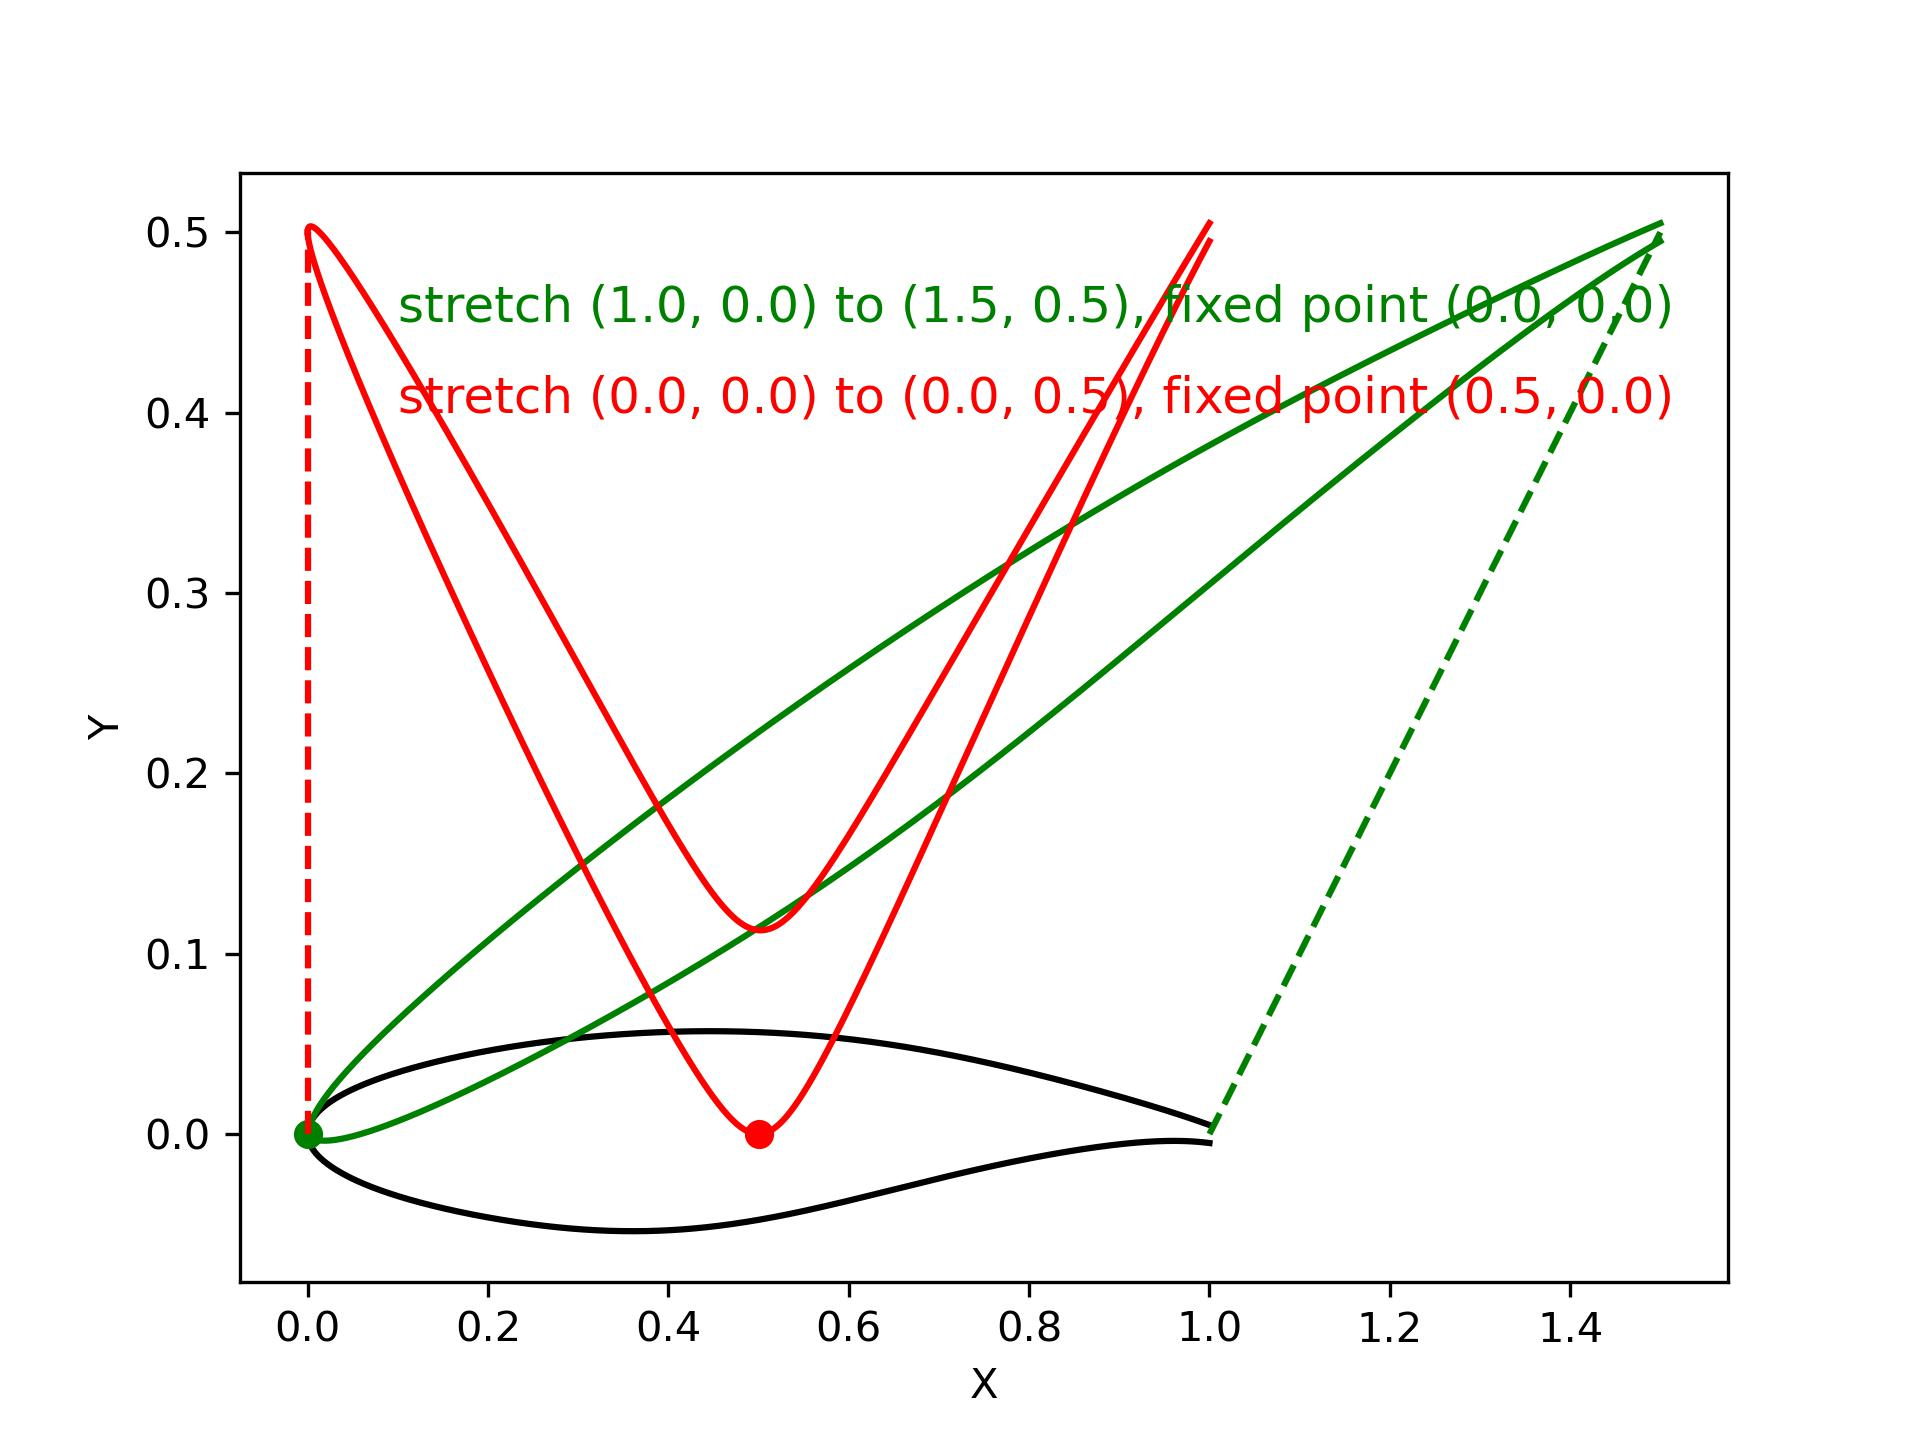
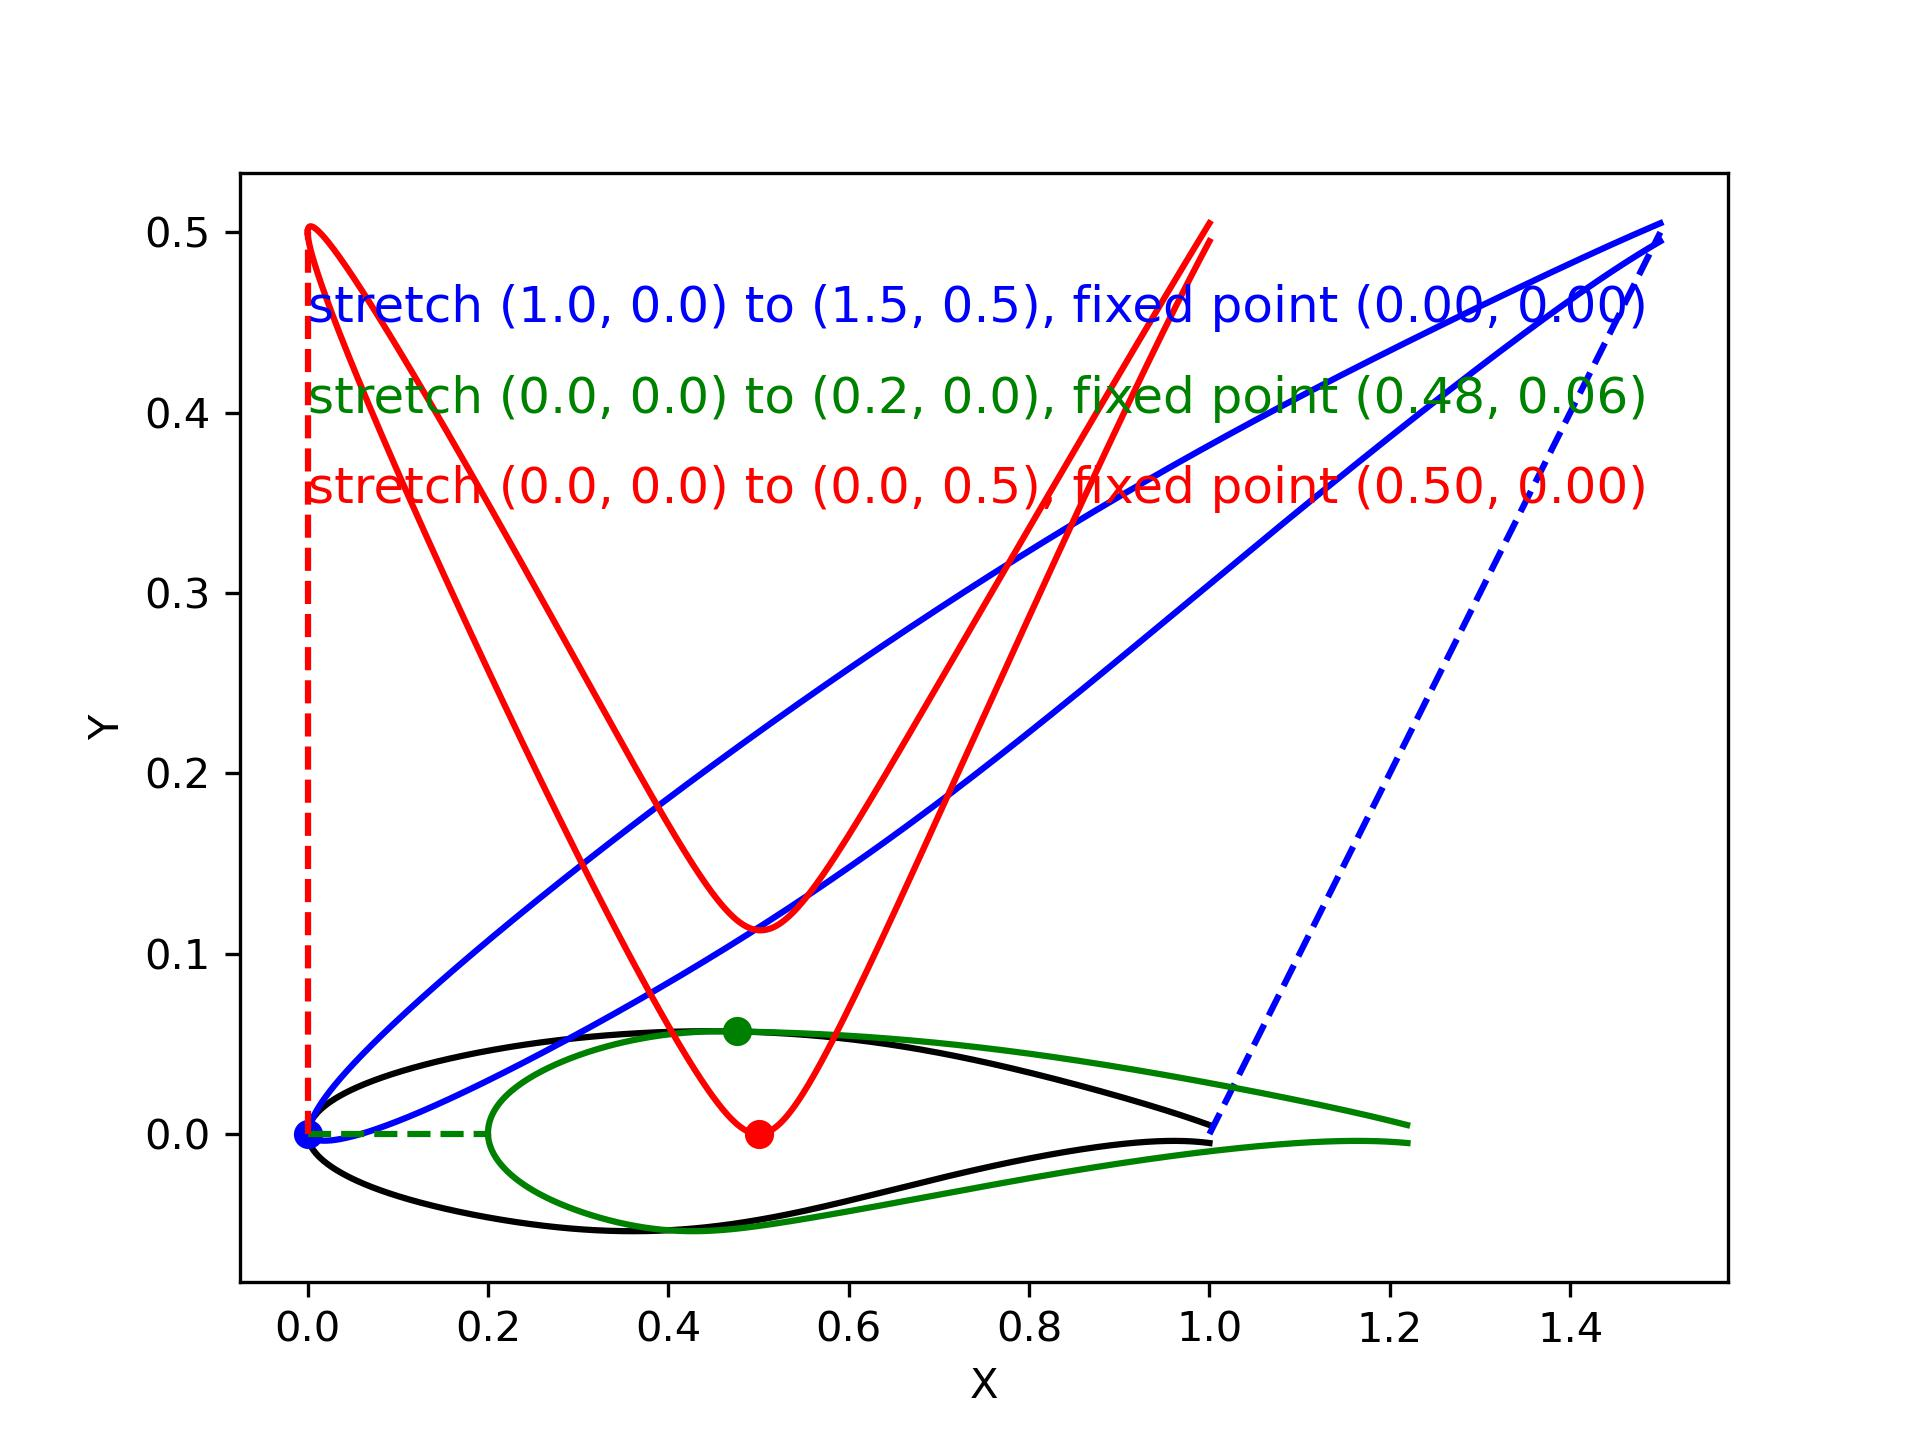
Tutorial curve_transform

diff --git a/docs/tutorial/curve_transform.py b/docs/tutorial/curve_transform.py
@@ -111,7 +111,19 @@ def stretch_curve():
     plt.plot(x0, yu0, 'k')
     plt.plot(x0, yl0, 'k')
     
+    
     dx=0.5; dy=0.5; xm=1.0; ym=0.0; xf=0.0; yf=0.0
+    xu_, yu_ = stretch_fixed_point(x0, yu0, dx=dx, dy=dy, xm=xm, ym=ym, xf=xf, yf=yf)
+    xl_, yl_ = stretch_fixed_point(x0, yl0, dx=dx, dy=dy, xm=xm, ym=ym, xf=xf, yf=yf)
+    
+    plt.plot(xu_, yu_, 'b')
+    plt.plot(xl_, yl_, 'b')
+    plt.plot([xf], [yf], 'bo')
+    plt.plot([xm, xm+dx], [ym, ym+dy], 'b--')
+    plt.text(0.0, 0.45, 'stretch (%.1f, %.1f) to (%.1f, %.1f), fixed point (%.2f, %.2f)'%(xm, ym, xm+dx, ym+dy, xf, yf), fontsize=12, color='b')
+    
+    
+    dx=0.2; dy=0.0; xm=0.0; ym=0.0; xf=x0[500]; yf=yu0[500]
     xu_, yu_ = stretch_fixed_point(x0, yu0, dx=dx, dy=dy, xm=xm, ym=ym, xf=xf, yf=yf)
     xl_, yl_ = stretch_fixed_point(x0, yl0, dx=dx, dy=dy, xm=xm, ym=ym, xf=xf, yf=yf)
     
@@ -119,7 +131,8 @@ def stretch_curve():
     plt.plot(xl_, yl_, 'g')
     plt.plot([xf], [yf], 'go')
     plt.plot([xm, xm+dx], [ym, ym+dy], 'g--')
-    plt.text(0.1, 0.45, 'stretch (%.1f, %.1f) to (%.1f, %.1f), fixed point (%.1f, %.1f)'%(xm, ym, xm+dx, ym+dy, xf, yf), fontsize=12, color='g')
+    plt.text(0.0, 0.40, 'stretch (%.1f, %.1f) to (%.1f, %.1f), fixed point (%.2f, %.2f)'%(xm, ym, xm+dx, ym+dy, xf, yf), fontsize=12, color='g')
+    
     
     dx=0.0; dy=0.5; xm=0.0; ym=0.0; xf=0.5; yf=0.0
     xu_, yu_ = stretch_fixed_point(x0, yu0, dx=dx, dy=dy, xm=xm, ym=ym, xf=xf, yf=yf)
@@ -129,7 +142,7 @@ def stretch_curve():
     plt.plot(xl_, yl_, 'r')
     plt.plot([xf], [yf], 'ro')
     plt.plot([xm, xm+dx], [ym, ym+dy], 'r--')
-    plt.text(0.1, 0.40, 'stretch (%.1f, %.1f) to (%.1f, %.1f), fixed point (%.1f, %.1f)'%(xm, ym, xm+dx, ym+dy, xf, yf), fontsize=12, color='r')
+    plt.text(0.0, 0.35, 'stretch (%.1f, %.1f) to (%.1f, %.1f), fixed point (%.2f, %.2f)'%(xm, ym, xm+dx, ym+dy, xf, yf), fontsize=12, color='r')
     
     plt.xlabel('X')
     plt.ylabel('Y')

diff --git a/cst_modeling/basic.py b/cst_modeling/basic.py
@@ -1761,7 +1761,7 @@ def rotate(x: np.ndarray, y: np.ndarray, z: np.ndarray,
 def stretch_fixed_point(x: np.ndarray, y: np.ndarray, dx=0.0, dy=0.0, 
                         xm=None, ym=None, xf=None, yf=None) -> Tuple[np.ndarray, np.ndarray]:
     '''
-    Linearly stretch a 2D curve when a certain point is fixed
+    Linearly stretch a 2D curve when a certain point (on the curve) is fixed.
 
     Parameters
     ------------------

diff --git a/docs/source/tutorial/curve_transform.rst b/docs/source/tutorial/curve_transform.rst
@@ -49,7 +49,10 @@ The following figure shows the normalization of any airfoil.
 Stretch curve
 ------------------------
 
-The following figure shows the result of stretching a curve.
+The following figure shows the result of stretching a curve. 
+It linearly stretch a curve when a certain point (`xf`, `yf`) is fixed.
+The fixed point is suggested on one of the ends of the given curve.
+Otherwise, it may gives counterintuitive results, e.g., the green and red curves.
 
 .. code-block:: python
     :linenos:
